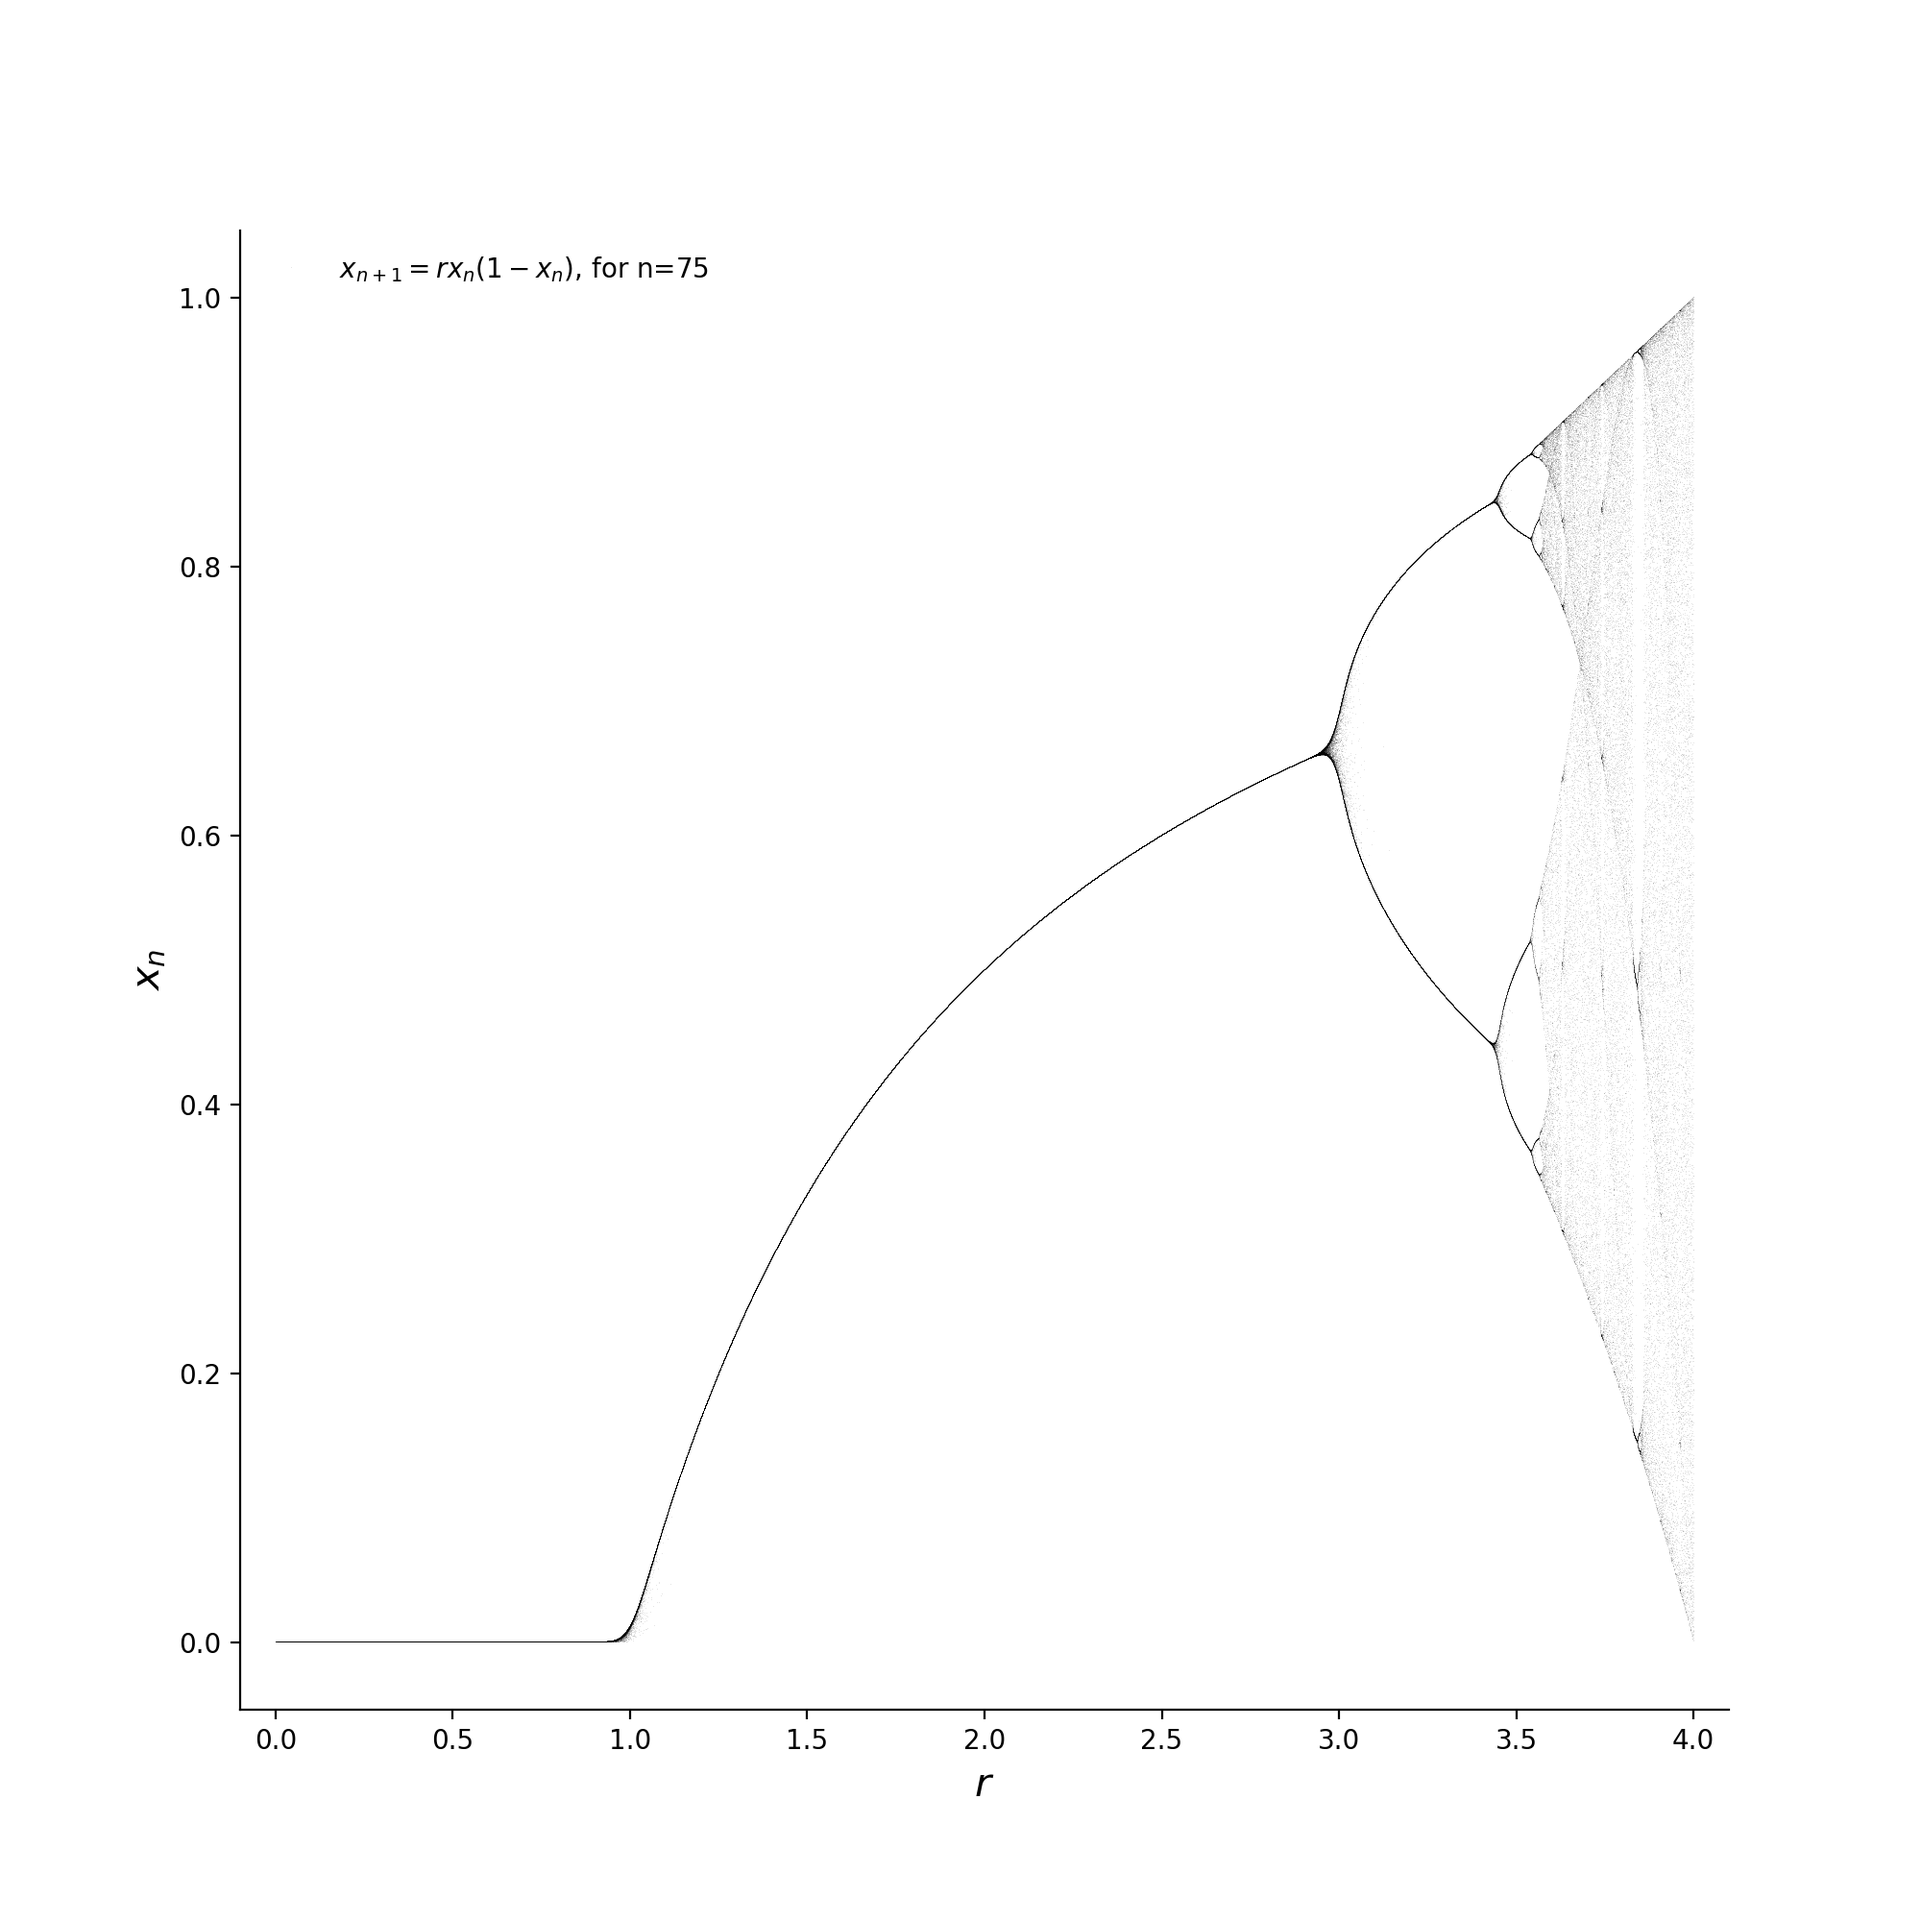
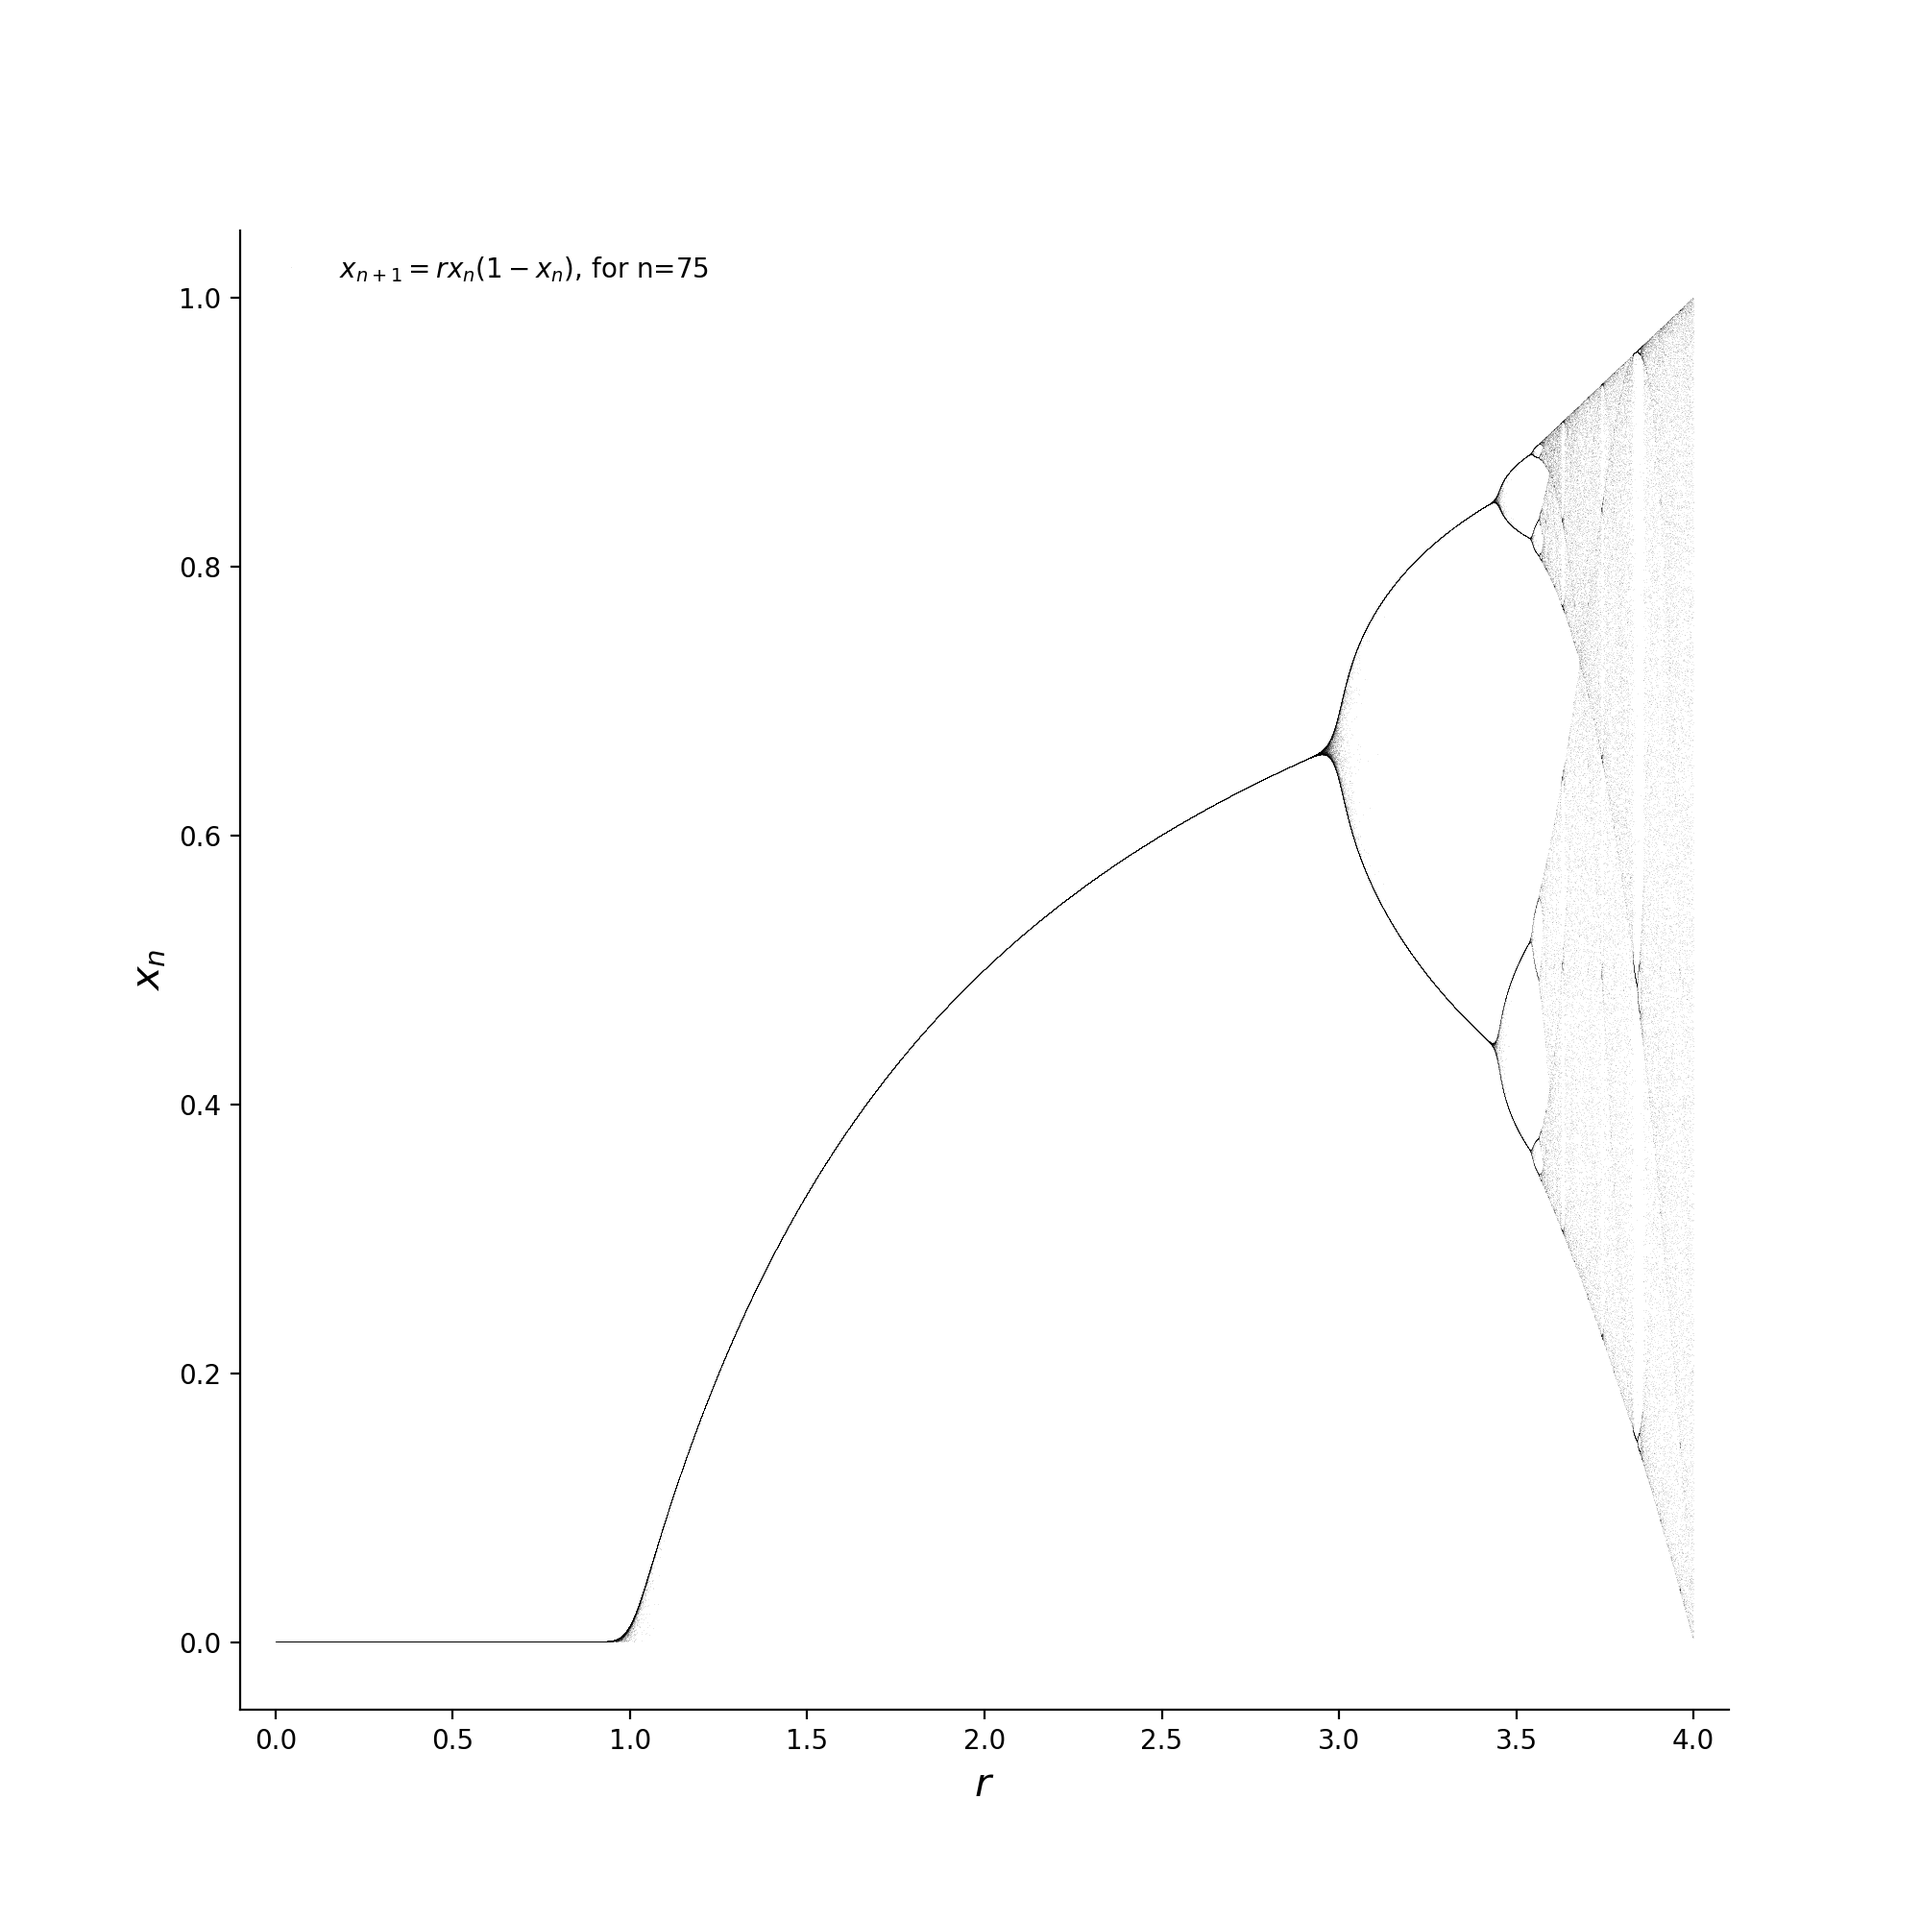
Changed the animate function to create the maps dynamically in the update function

Changed region(s): [[0.806, 0.155, 0.899, 0.837], [0.682, 0.372, 0.713, 0.403]]

diff --git a/src/course_package/bifurcation.py b/src/course_package/bifurcation.py
@@ -69,12 +69,6 @@ def animate_map(points: int, iterations: int) -> None:
     points : number of points that the map should go through for x and r
     iterations : number of iterations that the map should perform for x and r
     """
-    X = []
-    R = []
-    for iteration in range(iterations):
-        r, x = make_logistic_map(points=points, iterations=iteration)
-        R.append(r)
-        X.append(x)
 
     fig, ax = plt.subplots(figsize=(10, 10))
     (line,) = ax.plot([], [], ls="", marker=",", color="black", alpha=0.1)
@@ -85,13 +79,12 @@ def animate_map(points: int, iterations: int) -> None:
     ax.spines[["right", "top"]].set_visible(False)
 
     def update(frame):
-        # skip for n = 0
-        if frame > 0:
-            line.set_data(R[frame], X[frame])
-            equation = r"$x_{n+1} = rx_{n}(1-x_{n})$, "
-            counter = f"for n={frame}"
-            line.set_label(equation + counter)
-            ax.legend(loc="upper left", frameon=False)
+        r, x = make_logistic_map(points=points, iterations=frame)
+        line.set_data(r, x)
+        equation = r"$x_{n+1} = rx_{n}(1-x_{n})$, "
+        counter = f"for n={frame}"
+        line.set_label(equation + counter)
+        ax.legend(loc="upper left", frameon=False)
         return (line,)
 
     ani = animation.FuncAnimation(fig, update, frames=iterations, interval=50)

diff --git a/scripts/hwa4/hwa4.md b/scripts/hwa4/hwa4.md
@@ -1,0 +1,16 @@
+# Notes
+
+As the instructions read I created a function that calculated $x_{n+1}$
+for a given $x$ and $r$ in $x_{n+1}=rx_{n}(1-x_{n})$. The iterative part
+it took some to to wrap my head around how to solve this. As any developer
+do, I took some inspiration from stackoverflow. Reading some code where 
+people have done similar things I finally managed to come up with a solution.
+
+I created another another function in my `bifurcation` module where I specify
+number of points and iterations as parameters I then create two numpy arrays,
+one for $r$ values that linearly increase  in the range [0,4] with the numbers 
+of points which was given as a parameter. I then created the $x$ values randomly
+in the range [0,1], also this with the number of points that was given as an parameter
+
+
+
